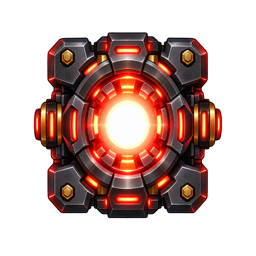
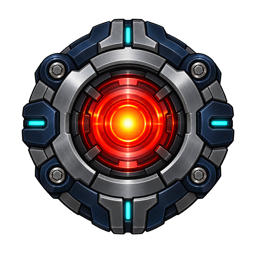
feat(obstacles): render mechanical laser hazards
Plan: 2026-11-02-5pm-rush-jetpack-visual-polish
Phase: P01-arcade-visual-polish
Task: T04-mechanical-laser-redesign

- add metal emitters, thin laser cores, charge pulses, and sparks
- keep visual glow separate from collision geometry

diff --git a/src/features/obstacles/LaserHazardVisual.ts b/src/features/obstacles/LaserHazardVisual.ts
@@ -1,5 +1,5 @@
 import Phaser from 'phaser';
-import type { LaserVisualSpec, ResolvedLaserGeometry } from './obstacleTypes';
+import type { LaserActivity, LaserVisualSpec, ResolvedLaserGeometry } from './obstacleTypes';
 
 export interface LaserHazardVisualConfig {
   geometry: ResolvedLaserGeometry;
@@ -9,15 +9,28 @@ export interface LaserHazardVisualConfig {
 
 export class LaserHazardVisual extends Phaser.GameObjects.Container {
   private readonly displayBounds: Phaser.Geom.Rectangle;
+  private readonly glow: Phaser.GameObjects.Graphics;
+  private readonly beam: Phaser.GameObjects.Graphics;
+  private readonly core: Phaser.GameObjects.Graphics;
+  private readonly emitters: Phaser.GameObjects.Image[];
+  private readonly sparks: Phaser.GameObjects.Graphics[];
+  private readonly geometry: ResolvedLaserGeometry;
+  private readonly visual: LaserVisualSpec;
+  private activity: LaserActivity = 'charging';
+  private startedAt?: number;
 
   public constructor(scene: Phaser.Scene, config: LaserHazardVisualConfig) {
     super(scene, 0, 0);
     const { geometry, visual } = config;
-    const graphics = new Phaser.GameObjects.Graphics(scene);
-    this.drawBeam(graphics, geometry, visual.glowWidth, visual.glowColor, 0.34);
-    this.drawBeam(graphics, geometry, visual.beamWidth, visual.beamColor, 0.92);
-    this.drawBeam(graphics, geometry, visual.coreWidth, visual.coreColor, 1);
-    this.add(graphics);
+    this.geometry = config.geometry;
+    this.visual = config.visual;
+    this.glow = new Phaser.GameObjects.Graphics(scene);
+    this.beam = new Phaser.GameObjects.Graphics(scene);
+    this.core = new Phaser.GameObjects.Graphics(scene);
+    this.drawBeam(this.glow, this.geometry, visual.glowWidth, visual.glowColor);
+    this.drawBeam(this.beam, this.geometry, visual.beamWidth, visual.beamColor);
+    this.drawBeam(this.core, this.geometry, visual.coreWidth, visual.coreColor);
+    this.add([this.glow, this.beam, this.core]);
 
     const emitterStart = scene.make.image({ key: config.emitterTextureKey, add: false })
       .setDisplaySize(visual.emitterWidth, visual.emitterHeight)
@@ -44,8 +57,43 @@ export class LaserHazardVisual extends Phaser.GameObjects.Container {
         Math.max(visual.glowWidth, visual.emitterHeight),
       );
     }
-    this.add([emitterStart, emitterEnd]);
+    this.emitters = [emitterStart, emitterEnd];
+    this.add(this.emitters);
+    this.sparks = this.createSparks(scene);
+    this.add(this.sparks);
     this.setDepth(3);
+    this.update(0);
+  }
+
+  public setActivity(activity: LaserActivity): void {
+    this.activity = activity;
+    if (activity === 'charging') this.startedAt = undefined;
+    this.update(this.startedAt ?? 0);
+  }
+
+  public getActivity(): LaserActivity { return this.activity; }
+  public getEmitterCount(): number { return this.emitters.length; }
+
+  public update(timeMs: number): void {
+    if (this.startedAt === undefined) this.startedAt = timeMs;
+    if (this.activity === 'charging' && timeMs - this.startedAt >= this.visual.chargeDurationMs) this.activity = 'active';
+    const pulse = (Math.sin(timeMs * 0.012) + 1) / 2;
+    const active = this.activity === 'active';
+    this.glow.setAlpha(active ? 0.2 + pulse * 0.12 : 0.08 + pulse * 0.08);
+    this.beam.setAlpha(active ? 0.78 + pulse * 0.16 : 0.28 + pulse * 0.2);
+    this.core.setAlpha(active ? 0.88 + pulse * 0.12 : 0.5 + pulse * 0.25);
+    this.emitters.forEach((emitter, index) => {
+      emitter.setAlpha(active ? 0.88 + pulse * 0.12 : 0.55 + pulse * 0.25);
+      emitter.setScale(active ? 0.96 + pulse * 0.08 : 0.88 + pulse * 0.08);
+      emitter.setRotation(index === 0 ? pulse * 0.03 : -pulse * 0.03);
+    });
+    this.sparks.forEach((spark, index) => {
+      const sparkPulse = (Math.sin(timeMs * 0.02 + index * 1.7) + 1) / 2;
+      spark.setVisible(active || index < 2);
+      spark.setAlpha((active ? 0.35 : 0.12) + sparkPulse * (active ? 0.55 : 0.25));
+      spark.setScale(0.75 + sparkPulse * 0.5);
+      spark.setAngle((timeMs * (index % 2 === 0 ? 0.08 : -0.06)) + index * 31);
+    });
   }
 
   public getDisplayBounds(): Phaser.Geom.Rectangle {
@@ -57,13 +105,38 @@ export class LaserHazardVisual extends Phaser.GameObjects.Container {
     geometry: ResolvedLaserGeometry,
     width: number,
     color: number,
-    alpha: number,
   ): void {
-    graphics.fillStyle(color, alpha);
+    graphics.fillStyle(color, 1);
     if (geometry.orientation === 'vertical') {
       graphics.fillRect(-width / 2, geometry.start, width, geometry.length);
     } else {
       graphics.fillRect(geometry.start, -width / 2, geometry.length, width);
     }
+  }
+
+  private createSparks(scene: Phaser.Scene): Phaser.GameObjects.Graphics[] {
+    const points = this.geometry.orientation === 'vertical'
+      ? [
+        { x: -10, y: this.geometry.start + 8 },
+        { x: 9, y: this.geometry.start + 17 },
+        { x: -9, y: this.geometry.end - 14 },
+        { x: 10, y: this.geometry.end - 5 },
+      ]
+      : [
+        { x: this.geometry.start + 8, y: -10 },
+        { x: this.geometry.start + 17, y: 9 },
+        { x: this.geometry.end - 14, y: -9 },
+        { x: this.geometry.end - 5, y: 10 },
+      ];
+    return points.map(({ x, y }) => {
+      const spark = new Phaser.GameObjects.Graphics(scene);
+      spark.lineStyle(2, this.visual.sparkColor, 1);
+      spark.lineBetween(-5, 0, 5, 0);
+      spark.lineBetween(0, -5, 0, 5);
+      spark.fillStyle(this.visual.sparkColor, 1);
+      spark.fillCircle(0, 0, 1.5);
+      spark.setPosition(x, y);
+      return spark;
+    });
   }
 }

diff --git a/src/features/obstacles/ObstacleEntity.ts b/src/features/obstacles/ObstacleEntity.ts
@@ -12,6 +12,7 @@ export class ObstacleEntity extends Phaser.GameObjects.Container {
   private readonly warningIndicator?: ObstacleWarningIndicator;
   private readonly hitboxes: Phaser.Geom.Rectangle[];
   private readonly laserGeometry?: ResolvedLaserGeometry;
+  private readonly laserVisuals: LaserHazardVisual[] = [];
 
   public constructor(scene: Phaser.Scene, pattern: ObstaclePattern, x: number, y: number, laserGeometry?: ResolvedLaserGeometry) {
     super(scene, x, y);
@@ -33,7 +34,12 @@ export class ObstacleEntity extends Phaser.GameObjects.Container {
   public isOffscreen(): boolean { return this.x < -160; }
 
   public updateWarning(timeMs: number, viewportWidth: number): void {
+    this.updateVisual(timeMs, viewportWidth);
+  }
+
+  public updateVisual(timeMs: number, viewportWidth: number): void {
     if (!this.warningIndicator) return;
+    this.laserVisuals.forEach((laser) => laser.update(timeMs));
     if (this.x <= viewportWidth - 220) {
       this.warningIndicator.hide();
       return;
@@ -51,6 +57,11 @@ export class ObstacleEntity extends Phaser.GameObjects.Container {
     spanMode?: 'full' | 'fixed' | 'random';
     resolvedLength?: number;
     collisionLength?: number;
+    activity?: 'charging' | 'active';
+    beamWidth?: number;
+    coreWidth?: number;
+    glowWidth?: number;
+    emitterCount?: number;
     displayWidth: number;
     displayHeight: number;
     collisionBounds: Array<{ x: number; y: number; width: number; height: number }>;
@@ -64,6 +75,11 @@ export class ObstacleEntity extends Phaser.GameObjects.Container {
       spanMode: this.pattern.laserSpan?.mode,
       resolvedLength: this.laserGeometry?.length,
       collisionLength: this.laserGeometry?.collisionLength,
+      activity: this.laserVisuals[0]?.getActivity(),
+      beamWidth: this.pattern.laserVisual?.beamWidth,
+      coreWidth: this.pattern.laserVisual?.coreWidth,
+      glowWidth: this.pattern.laserVisual?.glowWidth,
+      emitterCount: this.laserVisuals.reduce((count, laser) => count + laser.getEmitterCount(), 0),
       displayWidth: dimensions.width,
       displayHeight: dimensions.height,
       collisionBounds: this.hitboxes.map((bounds) => ({ x: bounds.x, y: bounds.y, width: bounds.width, height: bounds.height })),
@@ -86,16 +102,19 @@ export class ObstacleEntity extends Phaser.GameObjects.Container {
             visual: pattern.laserVisual!,
             emitterTextureKey: gameAssetKeys.laserEmitter,
           });
+          this.laserVisuals.push(laser);
           laser.setPosition(0, offsetY);
           crossfire.add(laser);
         });
         return crossfire;
       }
-      return new LaserHazardVisual(scene, {
+      const laser = new LaserHazardVisual(scene, {
         geometry: this.laserGeometry,
         visual: pattern.laserVisual,
         emitterTextureKey: gameAssetKeys.laserEmitter,
       });
+      this.laserVisuals.push(laser);
+      return laser;
     }
     return this.createSpriteHazard(scene, pattern);
   }

diff --git a/tests/e2e/obstacle.spec.ts b/tests/e2e/obstacle.spec.ts
@@ -13,6 +13,9 @@ test('로컬 플레이에서 장애물 충돌이 crash 상태를 만든다', asy
   await expect.poll(async () => page.evaluate(() => window.__5PM_RUSH_TEST_API__?.getObstacleVisualSnapshot?.().find((obstacle) => obstacle.orientation === 'vertical')), { timeout: 2_000 }).toMatchObject({
     orientation: 'vertical',
     spanMode: 'random',
+    beamWidth: 14,
+    coreWidth: 3,
+    emitterCount: 2,
   });
   const shortLaser = await page.evaluate(() => window.__5PM_RUSH_TEST_API__?.getObstacleVisualSnapshot?.().find((obstacle) => obstacle.orientation === 'vertical'));
   expect(shortLaser?.resolvedLength ?? 0).toBeGreaterThanOrEqual(220);
@@ -22,6 +25,7 @@ test('로컬 플레이에서 장애물 충돌이 crash 상태를 만든다', asy
   await expect.poll(async () => page.evaluate(() => window.__5PM_RUSH_TEST_API__?.getObstacleVisualSnapshot?.().find((obstacle) => obstacle.spanMode === 'full')), { timeout: 2_000 }).toMatchObject({
     orientation: 'vertical',
     resolvedLength: 535,
+    glowWidth: 28,
   });
   await page.screenshot({ path: testInfo.outputPath('laser-full-span.png') });
   await page.evaluate(() => window.__5PM_RUSH_TEST_API__?.clearDemoObstacles?.());

diff --git a/src/features/obstacles/obstaclePatterns.ts b/src/features/obstacles/obstaclePatterns.ts
@@ -1,24 +1,27 @@
 import type { LaserVisualSpec, ObstaclePattern, PlayableGap } from './obstacleTypes';
 
 const RED_LASER: LaserVisualSpec = {
-  beamWidth: 24,
-  coreWidth: 8,
-  glowWidth: 48,
-  glowColor: 0xff152c6e,
+  beamWidth: 14,
+  coreWidth: 3,
+  glowWidth: 28,
+  glowColor: 0xff8b102c,
   beamColor: 0xffef3340,
   coreColor: 0xfffff5d6,
   emitterColor: 0xffff5a5f,
   emitterFrame: 0,
-  emitterWidth: 56,
-  emitterHeight: 56,
+  emitterWidth: 60,
+  emitterHeight: 60,
+  chargeDurationMs: 360,
+  sparkColor: 0xffffc857,
 };
 
 const BLUE_LASER: LaserVisualSpec = {
   ...RED_LASER,
-  glowColor: 0xff173d96,
+  glowColor: 0xff104f98,
   beamColor: 0xff2864ff,
   coreColor: 0xffe9fbff,
   emitterColor: 0xff48b9ff,
+  sparkColor: 0xff9cecff,
 };
 
 export const obstaclePatterns: ObstaclePattern[] = [

diff --git a/src/features/obstacles/ObstacleField.ts b/src/features/obstacles/ObstacleField.ts
@@ -43,7 +43,7 @@ export class ObstacleField {
     for (let index = this.obstacles.length - 1; index >= 0; index -= 1) {
       const obstacle = this.obstacles[index];
       obstacle.x -= context.speed * deltaSeconds;
-      obstacle.updateWarning(this.scene.time.now, this.scene.scale.width);
+      obstacle.updateVisual(this.scene.time.now, this.scene.scale.width);
       const intersects = obstacle.getCollisionBoundsList().some((hitbox) => {
         const worldBounds = new Phaser.Geom.Rectangle(obstacle.x + hitbox.x, obstacle.y + hitbox.y, hitbox.width, hitbox.height);
         return Phaser.Geom.Intersects.RectangleToRectangle(playerBounds, worldBounds);

diff --git a/src/features/obstacles/obstaclePatterns.test.ts b/src/features/obstacles/obstaclePatterns.test.ts
@@ -44,6 +44,10 @@ describe('obstacle patterns', () => {
       expect(pattern.laserSpan).toBeDefined();
       expect(pattern.laserVisual?.glowWidth).toBeGreaterThan(pattern.laserVisual?.beamWidth ?? 0);
       expect(pattern.laserVisual?.beamWidth).toBeGreaterThanOrEqual(pattern.laserVisual?.coreWidth ?? 0);
+      expect(pattern.laserVisual?.beamWidth).toBeLessThanOrEqual(16);
+      expect(pattern.laserVisual?.coreWidth).toBeLessThanOrEqual(4);
+      expect(pattern.laserVisual?.glowWidth).toBeLessThanOrEqual(32);
+      expect(pattern.laserVisual?.chargeDurationMs).toBeGreaterThan(0);
     });
   });
 });

diff --git a/src/features/obstacles/obstacleTypes.ts b/src/features/obstacles/obstacleTypes.ts
@@ -2,6 +2,7 @@ export type ObstacleKind = 'vertical-laser' | 'horizontal-laser' | 'missile' | '
 
 export type LaserOrientation = 'vertical' | 'horizontal';
 export type LaserSpanMode = 'full' | 'fixed' | 'random';
+export type LaserActivity = 'charging' | 'active';
 
 export interface LaserSpanSpec {
   orientation: LaserOrientation;
@@ -24,6 +25,8 @@ export interface LaserVisualSpec {
   emitterFrame: number;
   emitterWidth: number;
   emitterHeight: number;
+  chargeDurationMs: number;
+  sparkColor: number;
 }
 
 export interface ResolvedLaserGeometry {

diff --git a/src/game/test/GameTestApi.ts b/src/game/test/GameTestApi.ts
@@ -45,6 +45,11 @@ export interface GameTestApi {
     x: number;
     orientation?: 'vertical' | 'horizontal';
     spanMode?: 'full' | 'fixed' | 'random';
+    activity?: 'charging' | 'active';
+    beamWidth?: number;
+    coreWidth?: number;
+    glowWidth?: number;
+    emitterCount?: number;
     resolvedLength?: number;
     collisionLength?: number;
     displayWidth: number;

diff --git a/.memory/phases/2026-11-02-5pm-rush-jetpack-visual-polish/P01-arcade-visual-polish/phase.md b/.memory/phases/2026-11-02-5pm-rush-jetpack-visual-polish/P01-arcade-visual-polish/phase.md
@@ -7,12 +7,12 @@
 | T01 | `done ✅` | 캐릭터 투명 프레임·중복 렌더링·잔상 원인을 제거하고 렌더/충돌 계약 확정 | [T01](./T01-player-render-isolation.md) |
 | T02 | `done ✅` | RUN/TAKEOFF/FLY/FALL/LAND/HIT/DEAD 상태와 고정 프레임 row를 실제 이동 상태에 연결 | [T02](./T02-player-animation-state-machine.md) |
 | T03 | `done ✅` | 가방형 제트팩, 로켓 변환, 로컬 불꽃·스파크·입자 VFX 고도화 | [T03](./T03-attached-jetpack-vfx.md) |
-| T04 | `in_progress 🔵` | 기계식 수직·수평 레이저와 충전/활성 시각·충돌 footprint 개선 | [T04](./T04-mechanical-laser-redesign.md) |
-| T05 | `pending` | 보라색 몬스터를 보안 드론/전기 장애물/미사일/회전 장애물 아트로 통일 | [T05](./T05-security-obstacle-art-direction.md) |
+| T04 | `done ✅` | 기계식 수직·수평 레이저와 충전/활성 시각·충돌 footprint 개선 | [T04](./T04-mechanical-laser-redesign.md) |
+| T05 | `in_progress 🔵` | 보라색 몬스터를 보안 드론/전기 장애물/미사일/회전 장애물 아트로 통일 | [T05](./T05-security-obstacle-art-direction.md) |
 | T06 | `pending` | 웹 대시보드형 HUD를 선명한 아케이드 HUD와 부스터 게이지로 교체 | [T06](./T06-arcade-hud-redesign.md) |
 | T07 | `pending` | 패럴랙스·먼지·착지·수집·레이저·충돌 연출을 pooled feedback으로 통합 | [T07](./T07-parallax-and-feedback-polish.md) |
 | T08 | `pending` | 전체 시각 회귀, 상태 snapshot, asset/console/production guard 검증 | [T08](./T08-visual-polish-regression-validation.md) |
 
 ## Progress
 
-- done: 3/8 (active: T04)
+- done: 4/8 (active: T05)

diff --git a/.memory/current.md b/.memory/current.md
@@ -7,10 +7,10 @@
 [P01 Arcade Visual Polish](./phases/2026-11-02-5pm-rush-jetpack-visual-polish/P01-arcade-visual-polish/phase.md)
 
 ## Active Task
-[T04 Mechanical Laser Redesign](./phases/2026-11-02-5pm-rush-jetpack-visual-polish/P01-arcade-visual-polish/T04-mechanical-laser-redesign.md)
+[T05 Security Obstacle Art Direction](./phases/2026-11-02-5pm-rush-jetpack-visual-polish/P01-arcade-visual-polish/T05-security-obstacle-art-direction.md)
 
 ## Status
-- T01~T03 구현·검증 완료
+- T01~T04 구현·검증 완료
 
 ## Next Step (IMPORTANT)
-T04 청사진을 읽고 `LaserHazardVisual`·`ObstacleEntity`·`ObstacleField`에 기계식 레이저 emitter, 충전/활성 상태, 수직·수평 span과 실제 충돌 footprint를 연결
+T05 청사진을 읽고 보라색 구형 장애물을 보안 드론·전기 드론·미사일·회전 장애물 visual contract로 교체하고 기존 충돌/경고/실드 규칙을 회귀 검증

diff --git a/.memory/phases/2026-11-02-5pm-rush-jetpack-visual-polish/P01-arcade-visual-polish/T04-mechanical-laser-redesign.md b/.memory/phases/2026-11-02-5pm-rush-jetpack-visual-polish/P01-arcade-visual-polish/T04-mechanical-laser-redesign.md
@@ -1,6 +1,6 @@
 # Task: T04 Mechanical Laser Redesign
 
-## Status: pending
+## Status: done ✅
 
 ## Goal
 
@@ -120,6 +120,6 @@ Task: T04-mechanical-laser-redesign
 
 ## Progress
 
-- [ ] 구현 완료
-- [ ] 검증 통과
-- commit: pending
+- [x] 구현 완료
+- [x] 검증 통과
+- commit: `pending` (이번 단계에서 생성)

diff --git a/.memory/phases/2026-11-02-5pm-rush-jetpack-visual-polish/P01-arcade-visual-polish/T03-attached-jetpack-vfx.md b/.memory/phases/2026-11-02-5pm-rush-jetpack-visual-polish/P01-arcade-visual-polish/T03-attached-jetpack-vfx.md
@@ -158,4 +158,4 @@ Task: T03-attached-jetpack-vfx
 
 - [x] 구현 완료
 - [x] 검증 통과
-- commit: `pending` (이번 단계에서 생성)
+- commit: `5d86c45`
